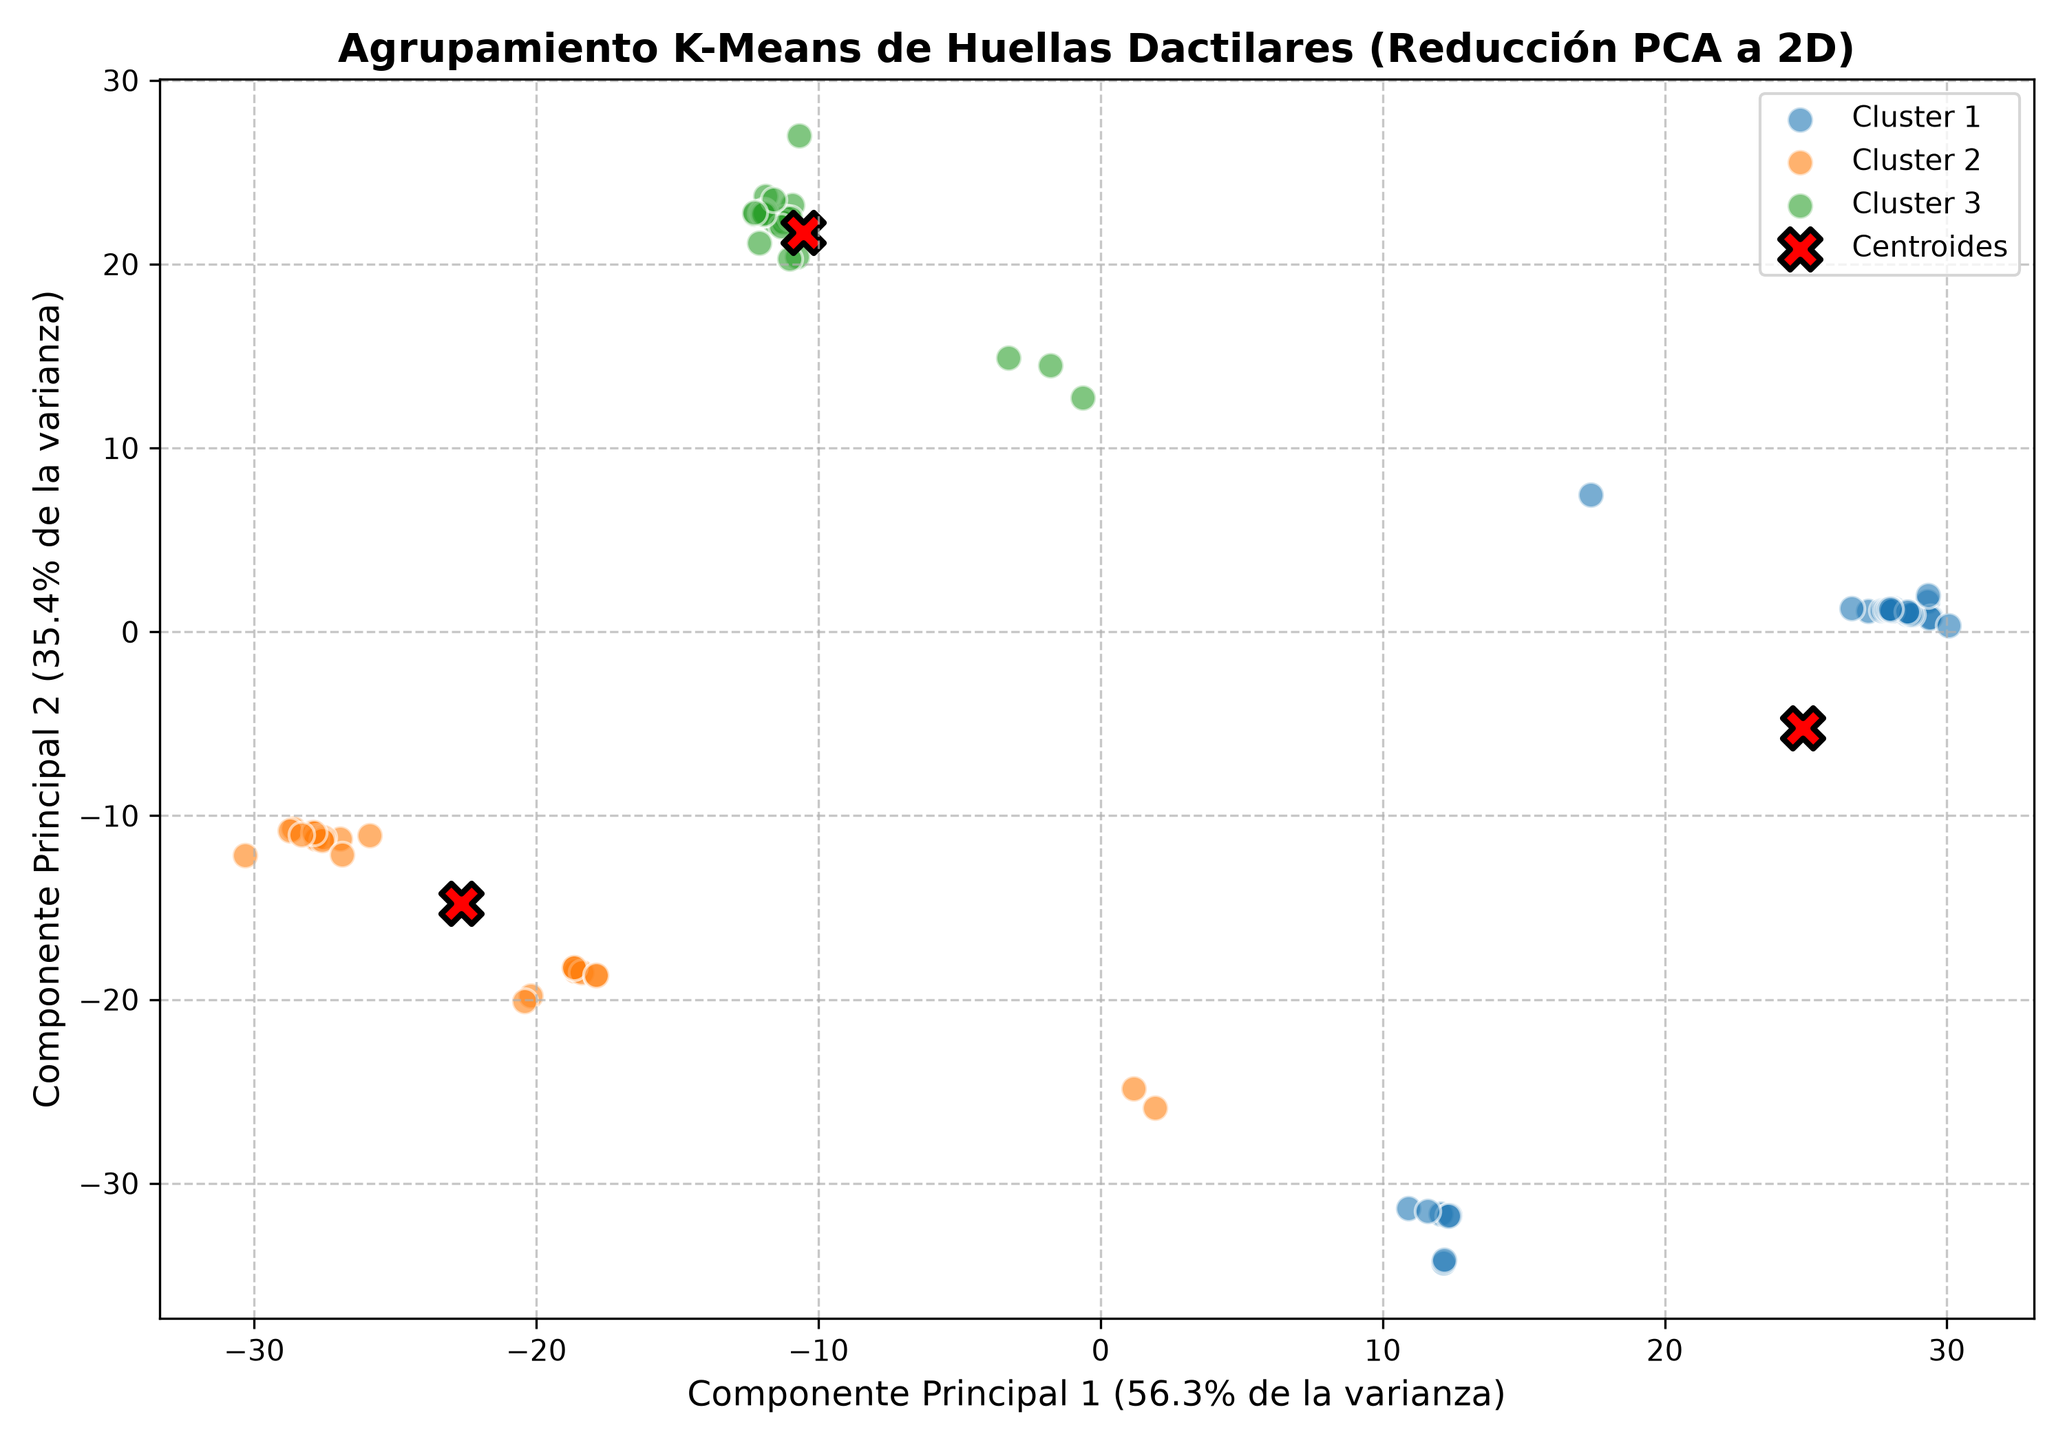
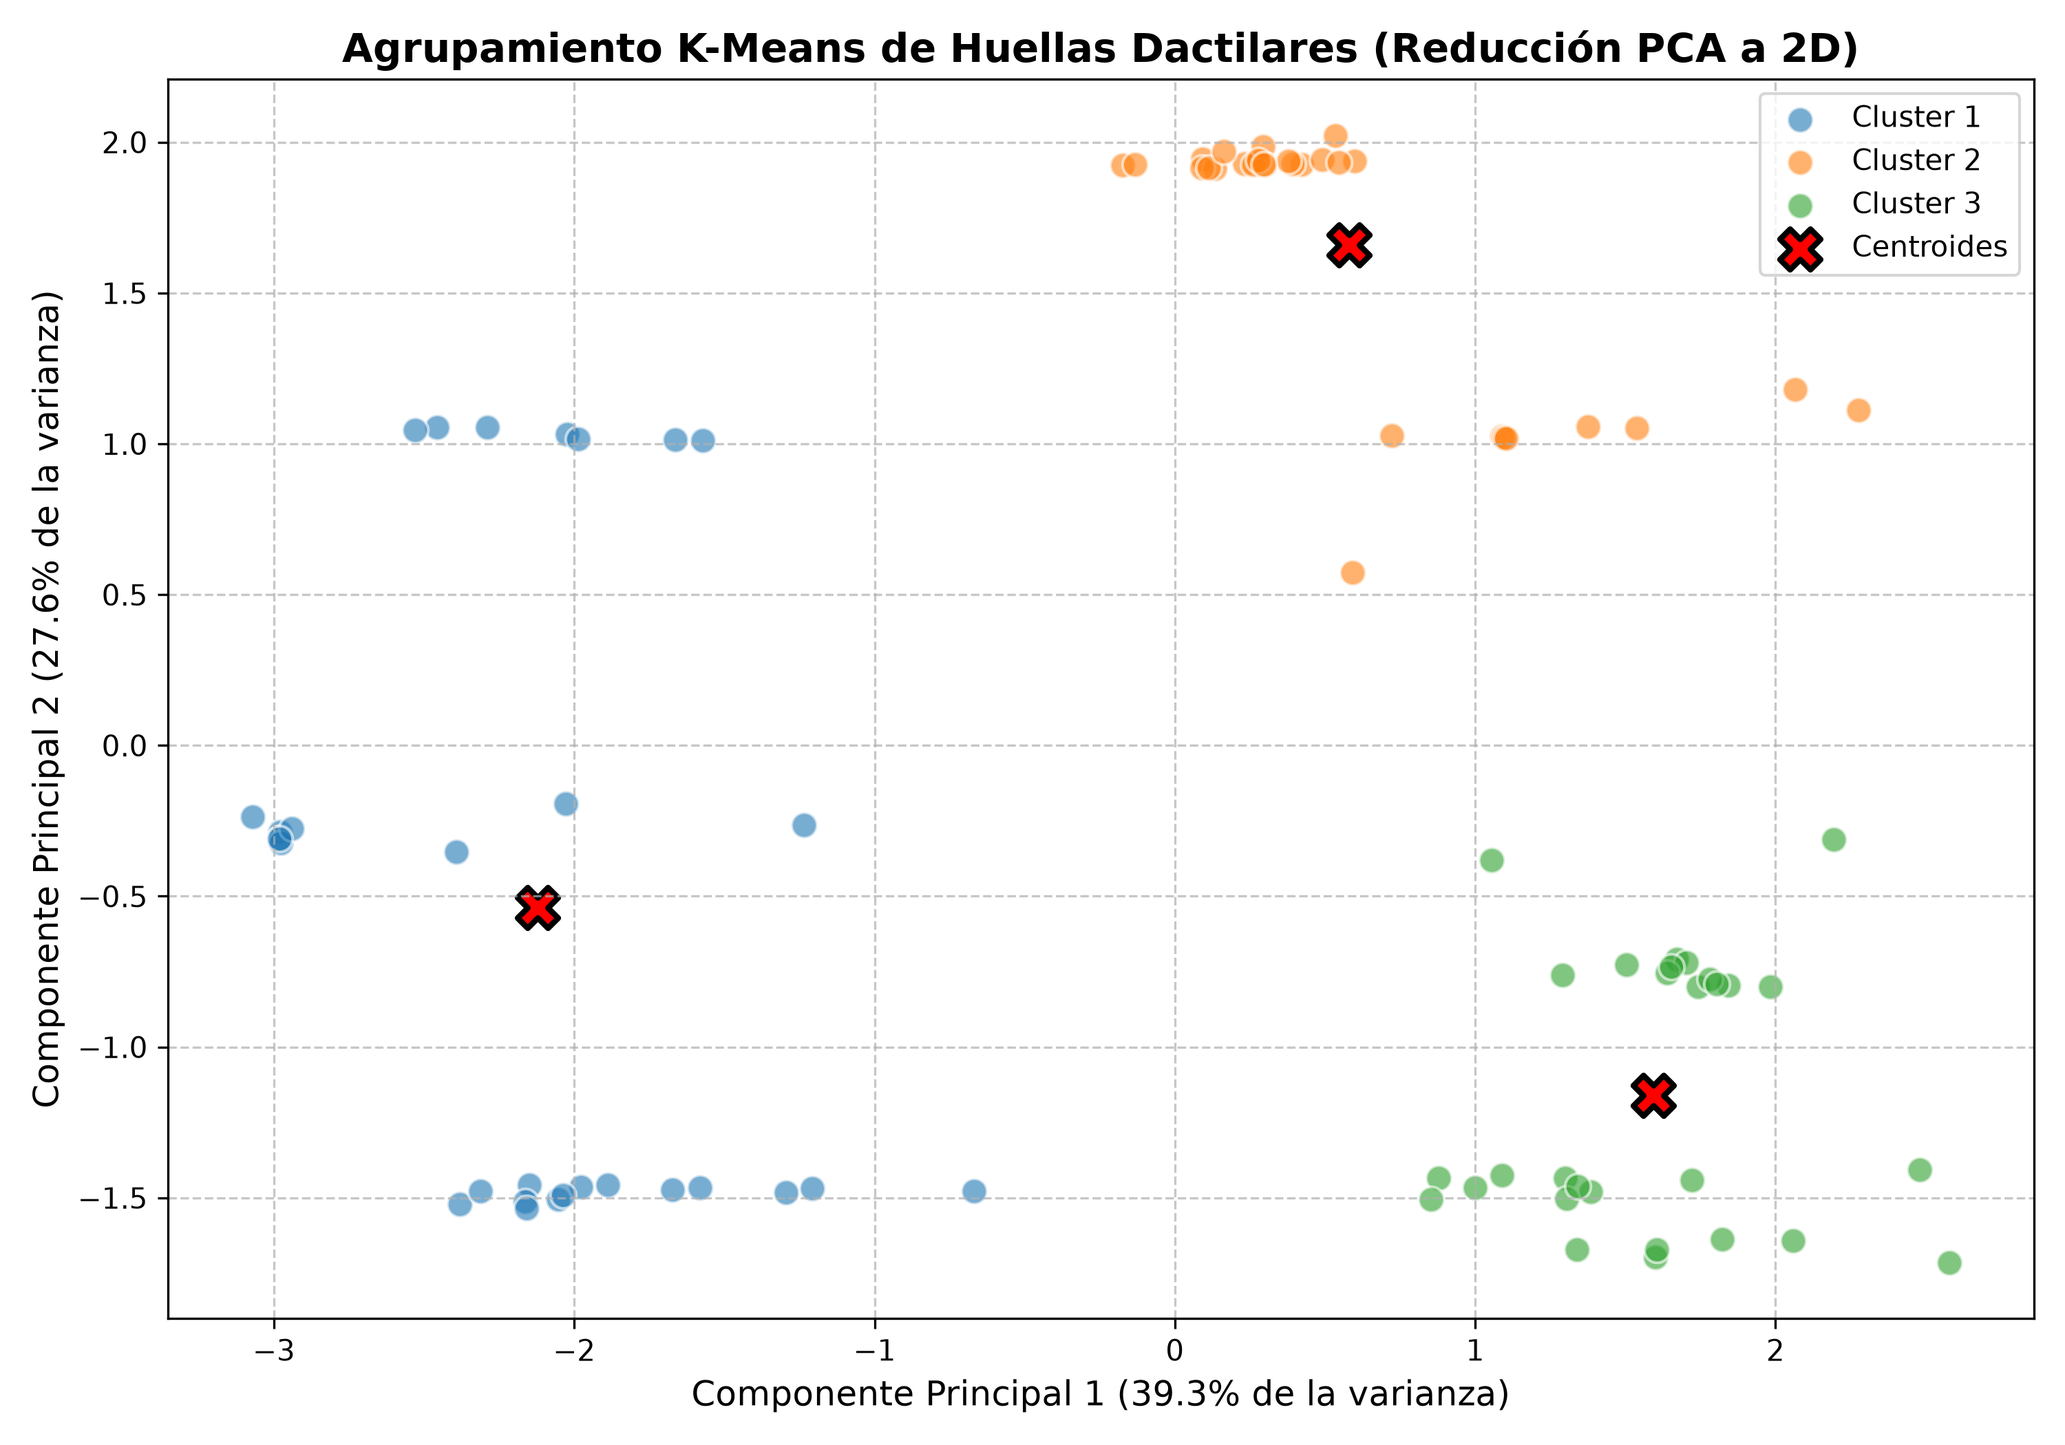
Actualizar proyecto

diff --git a/src/agente.py b/src/agente.py
@@ -1,73 +1,76 @@
 import numpy as np
 import cv2
-import pickle
 import os
+import pickle
 from sklearn.cluster import KMeans
 from sklearn.neighbors import KNeighborsClassifier
+from sklearn.preprocessing import StandardScaler
+from collections import Counter
 
-# Importamos las funciones de nuestros otros módulos
 from src.procesamiento_voz import cargar_dataset_voz, escuchar_audio_en_vivo
 from src.procesamiento_imagen import procesar_pipeline_completo
 
 class AgenteControlAcceso:
-    def __init__(self, umbral_aceptacion=0.5):
-        """
-        Inicializa el agente, los clasificadores y el umbral empírico.
-        """
-        # Agrupamiento de huellas: K-Means con k=3 para las clases autorizadas
+    def __init__(self, umbral_aceptacion=1.5): # <-- Umbral más estricto por la normalización
         self.modelo_vision = KMeans(n_clusters=3, random_state=42, n_init=10)
         self.centroides = None
-        self.umbral_aceptacion = umbral_aceptacion # Umbral justificado experimentalmente[cite: 4]
+        self.umbral_aceptacion = umbral_aceptacion
+        self.scaler_vision = StandardScaler()
+        self.mapa_clusters = {} # <-- NUEVO: Diccionario para vincular K-Means con la identidad real
         
-        # Reconocimiento de voz: K-NN[cite: 4]
         self.modelo_voz = KNeighborsClassifier(n_neighbors=3)
+
+    # ==========================================
+    # GESTIÓN DE MODELOS EN DISCO
+    # ==========================================
+    def guardar_modelos(self, ruta="data/modelos_entrenados.pkl"):
+        estado = {
+            'modelo_vision': self.modelo_vision,
+            'centroides': self.centroides,
+            'modelo_voz': self.modelo_voz,
+            'scaler_vision': self.scaler_vision,
+            'mapa_clusters': self.mapa_clusters # <-- Guardamos el mapeo
+        }
+        with open(ruta, 'wb') as archivo:
+            pickle.dump(estado, archivo)
+
+    def cargar_modelos(self, ruta="data/modelos_entrenados.pkl"):
+        if not os.path.exists(ruta):
+            raise FileNotFoundError(f"No se encontró '{ruta}'. Entrena los modelos primero.")
+        with open(ruta, 'rb') as archivo:
+            estado = pickle.load(archivo)
+        self.modelo_vision = estado['modelo_vision']
+        self.centroides = estado['centroides']
+        self.modelo_voz = estado['modelo_voz']
+        self.scaler_vision = estado['scaler_vision']
+        self.mapa_clusters = estado['mapa_clusters'] # <-- Cargamos el mapeo
 
     # ==========================================
     # MÓDULO DE VISIÓN (HUELLAS DACTILARES)
     # ==========================================
-    
     def preprocesar_huella(self, ruta_o_imagen):
-        """
-        Acondiciona la imagen sintética ejecutando el pipeline completo: 
-        recorte, normalización, filtrado, binarización y esqueletizado.
-        """
         return procesar_pipeline_completo(ruta_o_imagen)
 
     def extraer_caracteristicas_huella(self, imagen_esqueletizada):
-        """
-        Genera un vector discriminante basado en los Momentos de Hu, 
-        que describen matemáticamente la estructura de la huella[cite: 4].
-        """
-        # Calculamos los momentos espaciales de la imagen
         momentos = cv2.moments(imagen_esqueletizada)
-        
-        # Calculamos los 7 Momentos de Hu (invariantes a rotación y traslación)
         momentos_hu = cv2.HuMoments(momentos)
-        
-        # Aplicamos una transformación logarítmica para estabilizar los valores
-        # ya que los momentos de Hu suelen ser números extremadamente pequeños
         caracteristicas = []
         for i in range(0, 7):
             if momentos_hu[i][0] != 0:
                 caracteristicas.append(-1 * np.copysign(1.0, momentos_hu[i][0]) * np.log10(abs(momentos_hu[i][0])))
             else:
                 caracteristicas.append(0)
-                
         return np.array(caracteristicas)
 
     def entrenar_kmeans(self, directorio_autorizadas="data/huellas/autorizadas"):
-        """
-        Extrae características de todas las huellas autorizadas y calcula los 
-        centroides (k=3) a partir de los datos sintéticos[cite: 3, 4].
-        """
         print("\nEntrenando modelo de visión (K-Means)...")
         X_vision = []
+        etiquetas_reales = [] # <-- NUEVO: Guardamos de qué carpeta viene cada huella
         
         if not os.path.exists(directorio_autorizadas):
-            print(f"Advertencia: No se encontró la ruta '{directorio_autorizadas}'.")
+            print(f"Advertencia: No se encontró '{directorio_autorizadas}'.")
             return
 
-        # Recorremos las subcarpetas de identidades
         for carpeta_id in os.listdir(directorio_autorizadas):
             ruta_id = os.path.join(directorio_autorizadas, carpeta_id)
             if os.path.isdir(ruta_id):
@@ -76,98 +79,72 @@ class AgenteControlAcceso:
                         ruta_imagen = os.path.join(ruta_id, archivo)
                         try:
                             esqueleto = self.preprocesar_huella(ruta_imagen)
-                            caracteristicas = self.extraer_caracteristicas_huella(esqueleto)
-                            X_vision.append(caracteristicas)
-                        except Exception as e:
-                            print(f"Error al procesar {ruta_imagen}: {e}")
+                            caracs = self.extraer_caracteristicas_huella(esqueleto)
+                            X_vision.append(caracs)
+                            etiquetas_reales.append(carpeta_id) # Guardamos el nombre real
+                        except Exception:
+                            pass
 
         if len(X_vision) >= 3:
-            # Entrenamos el modelo con la matriz de características extraídas
-            self.modelo_vision.fit(X_vision)
+            X_vision = np.array(X_vision)
+            X_vision_escalado = self.scaler_vision.fit_transform(X_vision)
+            
+            # Entrenamos el K-Means
+            self.modelo_vision.fit(X_vision_escalado)
             self.centroides = self.modelo_vision.cluster_centers_
+            
+            # <-- NUEVO: Mapeo de Clusters a Identidades Reales
+            predicciones_kmeans = self.modelo_vision.labels_
+            self.mapa_clusters = {}
+            for k in range(self.modelo_vision.n_clusters):
+                # Vemos qué etiquetas reales cayeron dentro del cluster K
+                etiquetas_en_cluster = [etiquetas_reales[i] for i in range(len(predicciones_kmeans)) if predicciones_kmeans[i] == k]
+                if etiquetas_en_cluster:
+                    # La identidad ganadora es la que más se repite en ese cluster
+                    identidad_mayoritaria = Counter(etiquetas_en_cluster).most_common(1)[0][0]
+                    self.mapa_clusters[k] = identidad_mayoritaria
+                    
+            print(f"Mapeo de identidades resuelto: {self.mapa_clusters}")
             print("¡Modelo de visión K-Means entrenado exitosamente!")
         else:
-            print("Error: Se necesitan al menos 3 muestras para entrenar K-Means con k=3.")
+            print("Error: Se necesitan al menos 3 muestras para entrenar.")
 
     def evaluar_acceso(self, ruta_huella_prueba):
-        """
-        Evalúa si una huella pertenece a una clase autorizada midiendo la 
-        distancia Euclidiana al centroide más cercano[cite: 3].
-        """
         if self.centroides is None:
             return False, "Modelo no entrenado"
 
-        # 1. Preprocesar y extraer características de la nueva huella
         esqueleto = self.preprocesar_huella(ruta_huella_prueba)
-        caracteristicas = self.extraer_caracteristicas_huella(esqueleto)
+        caracteristicas_crudas = self.extraer_caracteristicas_huella(esqueleto)
         
-        # 2. Predecir a qué clúster (identidad) pertenece
-        id_predicha = self.modelo_vision.predict([caracteristicas])[0]
+        caracs_escaladas = self.scaler_vision.transform([caracteristicas_crudas])
         
-        # 3. Obtener el centroide de ese clúster y calcular la distancia
-        centroide_correspondiente = self.centroides[id_predicha]
-        distancia = np.linalg.norm(caracteristicas - centroide_correspondiente)
+        id_cluster_predicho = self.modelo_vision.predict(caracs_escaladas)[0]
+        centroide_correspondiente = self.centroides[id_cluster_predicho]
         
-        print(f"Distancia al centroide de la Identidad {id_predicha + 1}: {distancia:.4f}")
+        # <-- NUEVO: Traducimos el número arbitrario del cluster a tu identidad real
+        identidad_real = self.mapa_clusters.get(id_cluster_predicho, f"Cluster {id_cluster_predicho}")
         
-        # 4. Decisión basada en el umbral[cite: 4]
+        distancia = np.linalg.norm(caracs_escaladas[0] - centroide_correspondiente)
+        print(f"Distancia de prueba -> Centroide ({identidad_real}): {distancia:.4f}")
+        
         if distancia <= self.umbral_aceptacion:
-            return True, f"Identidad Sintética #{id_predicha + 1}"
+            return True, f"Identidad: {identidad_real.upper()}"
         else:
             return False, "Desconocido (Intruso)"
 
     # ==========================================
     # MÓDULO DE VOZ (COMANDOS)
     # ==========================================
-    
     def entrenar_knn(self):
-        """
-        Carga el dataset de audios y entrena el clasificador K-NN[cite: 4].
-        """
         print("\nEntrenando modelo de voz (K-NN)...")
         X_voz, y_voz = cargar_dataset_voz()
-        
         if len(X_voz) > 0:
             self.modelo_voz.fit(X_voz, y_voz)
             print("¡Modelo de voz K-NN entrenado exitosamente!")
-        else:
-            print("Advertencia: No se encontraron audios para entrenar K-NN.")
 
     def escuchar_comando(self):
-        """
-        Captura audio del micrófono, extrae características y clasifica 
-        el comando diciendo "reconocer", "identificar" o "salir"[cite: 4].
-        """
         caracteristicas = escuchar_audio_en_vivo()
         if caracteristicas is not None:
             prediccion = self.modelo_voz.predict([caracteristicas])[0]
             return prediccion.lower()
         return None
-    def guardar_modelos(self, ruta="data/modelos_entrenados.pkl"):
-        """
-        Serializa y guarda los modelos entrenados y los centroides en un archivo binario.
-        """
-        estado = {
-            'modelo_vision': self.modelo_vision,
-            'centroides': self.centroides,
-            'modelo_voz': self.modelo_voz
-        }
-        with open(ruta, 'wb') as archivo:
-            pickle.dump(estado, archivo)
-        print(f"✅ Modelos guardados exitosamente en '{ruta}'")
-
-    def cargar_modelos(self, ruta="data/modelos_entrenados.pkl"):
-        """
-        Carga el cerebro del agente desde el disco para evitar reentrenar.
-        """
-        if not os.path.exists(ruta):
-            raise FileNotFoundError(f"No se encontró el archivo '{ruta}'. Debes entrenar los modelos primero.")
-            
-        with open(ruta, 'rb') as archivo:
-            estado = pickle.load(archivo)
-            
-        self.modelo_vision = estado['modelo_vision']
-        self.centroides = estado['centroides']
-        self.modelo_voz = estado['modelo_voz']
-        print(f"✅ Modelos cargados instantáneamente desde '{ruta}'")
-

diff --git a/generar_grafico.py b/generar_grafico.py
@@ -2,6 +2,7 @@ import os
 import numpy as np
 import matplotlib.pyplot as plt
 from sklearn.decomposition import PCA
+from sklearn.preprocessing import StandardScaler
 from src.agente import AgenteControlAcceso
 
 def generar_grafico_clusters():
@@ -39,17 +40,22 @@ def generar_grafico_clusters():
         print("Faltan datos para graficar.")
         return
 
-    # 2. Entrenar K-Means con los datos originales (7D)
-    agente.modelo_vision.fit(X_vision)
+    # 2. Normalización Z-Score de los Momentos de Hu
+    # Esto asegura que todas las variables tengan el mismo peso matemático
+    scaler = StandardScaler()
+    X_vision_escalado = scaler.fit_transform(X_vision)
+
+    # 3. Entrenar K-Means con los datos normalizados (7D)
+    agente.modelo_vision.fit(X_vision_escalado)
     centroides_7d = agente.modelo_vision.cluster_centers_
     predicciones = agente.modelo_vision.labels_
 
-    # 3. Reducción de dimensionalidad con PCA (de 7D a 2D)
+    # 4. Reducción de dimensionalidad con PCA (de 7D a 2D)
     pca = PCA(n_components=2)
-    X_2d = pca.fit_transform(X_vision)
+    X_2d = pca.fit_transform(X_vision_escalado)
     centroides_2d = pca.transform(centroides_7d)
 
-    # 4. Configurar el gráfico con Matplotlib
+    # 5. Configurar el gráfico con Matplotlib
     plt.figure(figsize=(10, 7))
     
     # Colores para los 3 clusters
@@ -67,7 +73,7 @@ def generar_grafico_clusters():
                 c='red', marker='X', s=200, label='Centroides', 
                 edgecolors='black', linewidths=2)
 
-    # Formateo profesional para el informe
+    # Formateo profesional para el informe académico
     plt.title('Agrupamiento K-Means de Huellas Dactilares (Reducción PCA a 2D)', fontsize=14, fontweight='bold')
     plt.xlabel(f'Componente Principal 1 ({pca.explained_variance_ratio_[0]*100:.1f}% de la varianza)', fontsize=12)
     plt.ylabel(f'Componente Principal 2 ({pca.explained_variance_ratio_[1]*100:.1f}% de la varianza)', fontsize=12)
@@ -75,9 +81,9 @@ def generar_grafico_clusters():
     plt.grid(True, linestyle='--', alpha=0.7)
     plt.tight_layout()
 
-    # 5. Guardar la imagen
+    # 6. Guardar la imagen en alta resolución
     nombre_archivo = "grafico_kmeans_informe.png"
-    plt.savefig(nombre_archivo, dpi=300) # dpi=300 asegura alta resolución para el PDF
+    plt.savefig(nombre_archivo, dpi=300)
     print(f"✅ Gráfico generado y guardado exitosamente como '{nombre_archivo}'")
     
     # Mostrarlo en pantalla

diff --git a/src/generador_sintetico.py b/src/generador_sintetico.py
@@ -73,15 +73,15 @@ def generar_variantes(ruta_base, carpeta_destino, cantidad=50):
     for i in range(cantidad):
         variante = imagen_base.copy()
         
-        # Aplicamos transformaciones aleatorias (pueden combinarse)
-        if random.random() > 0.3:  # 70% de probabilidad de rotarse
-            variante = aplicar_rotacion(variante)
-        if random.random() > 0.3:  # 70% de probabilidad de trasladarse
-            variante = aplicar_traslacion(variante)
-        if random.random() > 0.4:  # 60% de probabilidad de tener ruido
-            variante = aplicar_ruido(variante)
-        if random.random() > 0.8:  # 20% de probabilidad de sufrir un corte
-            variante = aplicar_corte_parcial(variante)
+        # Mantenemos alta la probabilidad de rotación y traslación (Hu las soporta)
+        if random.random() > 0.1:  
+            variante = aplicar_rotacion(variante, angulo_maximo=25)
+        if random.random() > 0.1:  
+            variante = aplicar_traslacion(variante, desplazamiento_maximo=20)
+            
+        # Reducimos drásticamente el ruido para no romper el esqueleto
+        if random.random() > 0.7:  
+            variante = aplicar_ruido(variante, probabilidad=0.005)
             
         ruta_salida = os.path.join(carpeta_destino, f"{nombre_base}_var_{i+1}.png")
         cv2.imwrite(ruta_salida, variante)

diff --git a/main_vision.py b/main_vision.py
@@ -32,7 +32,7 @@ def main():
     print("=== INICIANDO MODO PRUEBA: SOLO VISIÓN ===")
     
     # 1. Instanciar agente y cargar el "cerebro" pre-entrenado
-    agente = AgenteControlAcceso(umbral_aceptacion=2.5) 
+    agente = AgenteControlAcceso(umbral_aceptacion=1.6) 
     agente.cargar_modelos(DIRECTORIO_PROYECTO / "data/modelos_entrenados.pkl")
 
     # 2. Inicializar el motor gráfico

diff --git a/main.py b/main.py
@@ -33,7 +33,7 @@ def main():
     
     # 1. Instanciar y entrenar al Agente de IA
     # El umbral puede requerir ajuste dependiendo de los valores matemáticos de los Momentos de Hu.
-    agente = AgenteControlAcceso(umbral_aceptacion=2.5) 
+    agente = AgenteControlAcceso(umbral_aceptacion=1.5) 
     agente.entrenar_kmeans()
     agente.entrenar_knn()
 
